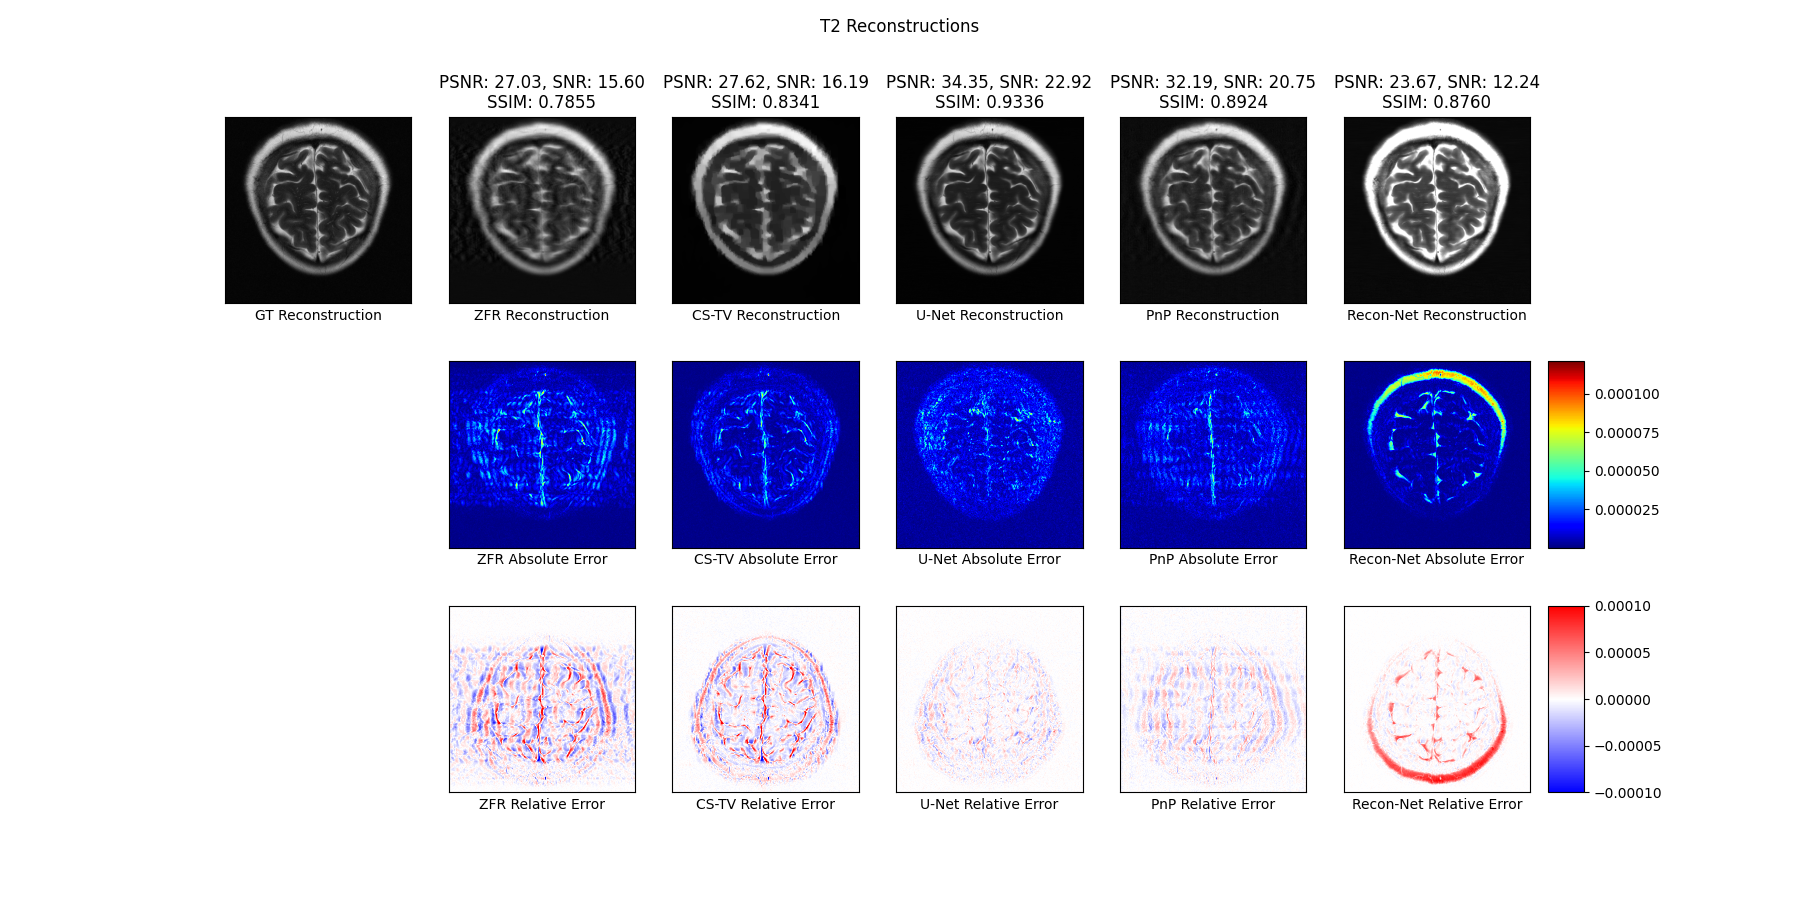
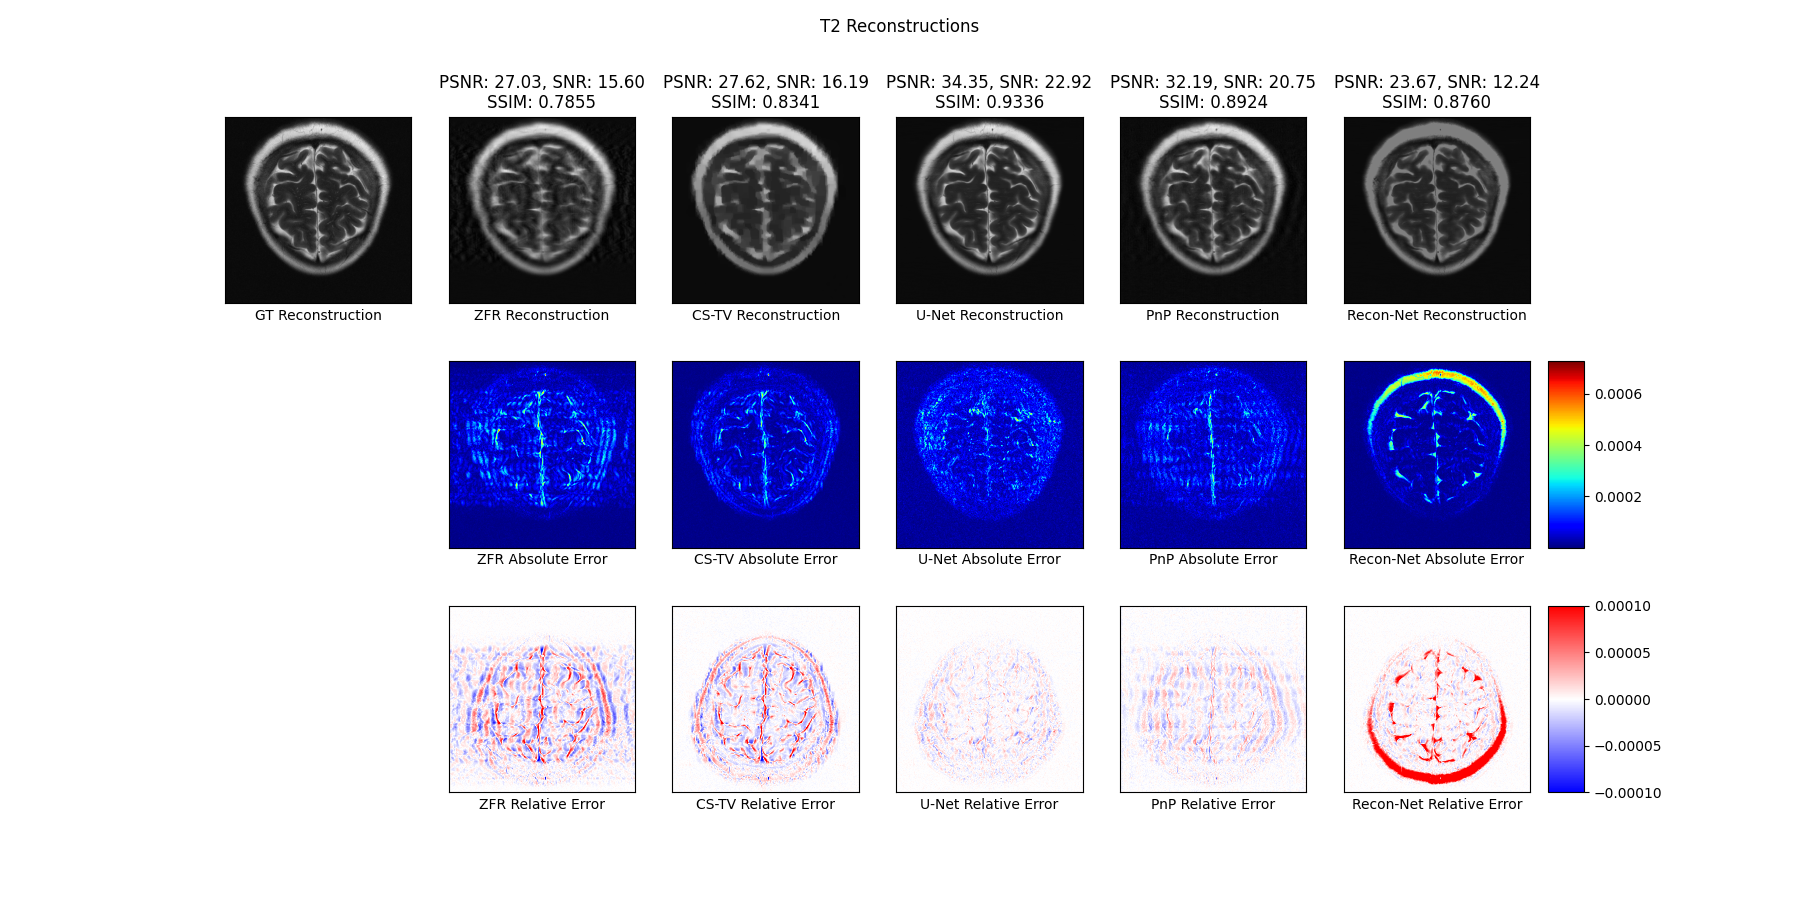
Fixed plot scaling

diff --git a/generate_plots.py b/generate_plots.py
@@ -34,7 +34,7 @@ def generate_image(fig, target, image, method, image_ind):
         snr = get_snr(target, image)
         ssim = get_ssim(target, image)
         ax.set_title(f'PSNR: {psnr:.2f}, SNR: {snr:.2f}\nSSIM: {ssim:.4f}')
-    ax.imshow(np.abs(image), cmap='gray')
+    ax.imshow(np.abs(image), cmap='gray', vmin=0, vmax=np.max(target))
     ax.set_xticks([])
     ax.set_yticks([])
     plt.xlabel(f'{method} Reconstruction')
@@ -127,14 +127,14 @@ for fname in tqdm(list(data_dir.glob("*.h5"))):
         generate_error_map(fig, target, recons, 'CS-TV', 9)
         generate_error_map(fig, target, unet_im, 'U-Net', 10)
         generate_error_map(fig, target, pnp_im, 'PnP', 11)
-        im, ax = generate_error_map(fig, target, gan_im, 'Recon-Net', 12, k=0.5)
+        im, ax = generate_error_map(fig, target, gan_im, 'Recon-Net', 12)
         get_colorbar(fig, im, ax)
 
         generate_error_map(fig, target, zfr, 'ZFR', 14, relative=True, k=1)
         generate_error_map(fig, target, recons, 'CS-TV', 15, relative=True, k=1)
         generate_error_map(fig, target, unet_im, 'U-Net', 16, relative=True, k=1)
         generate_error_map(fig, target, pnp_im, 'PnP', 17, relative=True, k=1)
-        im, ax = generate_error_map(fig, target, gan_im, 'Recon-Net', 18, relative=True, k=0.5)
+        im, ax = generate_error_map(fig, target, gan_im, 'Recon-Net', 18, relative=True, k=1)
         get_colorbar(fig, im, ax)
 
         plt.savefig(f'/home/bendel.8/Git_Repos/ComparisonStudy/plots/images/recons_{count}.png')

diff --git a/eval.py b/eval.py
@@ -15,6 +15,7 @@ import pickle
 all_psnr = []
 all_ssim = []
 all_snr = []
+all_ratio = []
 
 def mse(gt: np.ndarray, pred: np.ndarray) -> np.ndarray:
     """Compute Mean Squared Error (MSE)"""
@@ -123,6 +124,7 @@ def evaluate(args, recons_key):
             recons = np.squeeze(np.squeeze(recons["reconstruction"][()],axis=-1),axis=1) * np.max(target) / 2#recons["reconstruction"][()]
             for i in range(target.shape[0]):
                 metrics.push(target[i], recons[i])
+                all_ratio.append(recons / np.linalg.norm(target[i],2))
 
     return metrics
 
@@ -206,5 +208,6 @@ if __name__ == "__main__":
     print(metrics)
     get_avg_slice_time(args)
     #save_histogram('PSNR', all_psnr, args.method)
-    save_histogram('SNR', all_snr, args.method)
+    #save_histogram('SNR', all_snr, args.method)
+    save_histogram('Ratio', all_ratio, args.method)
     #save_histogram('SSIM', all_ssim, args.method)
